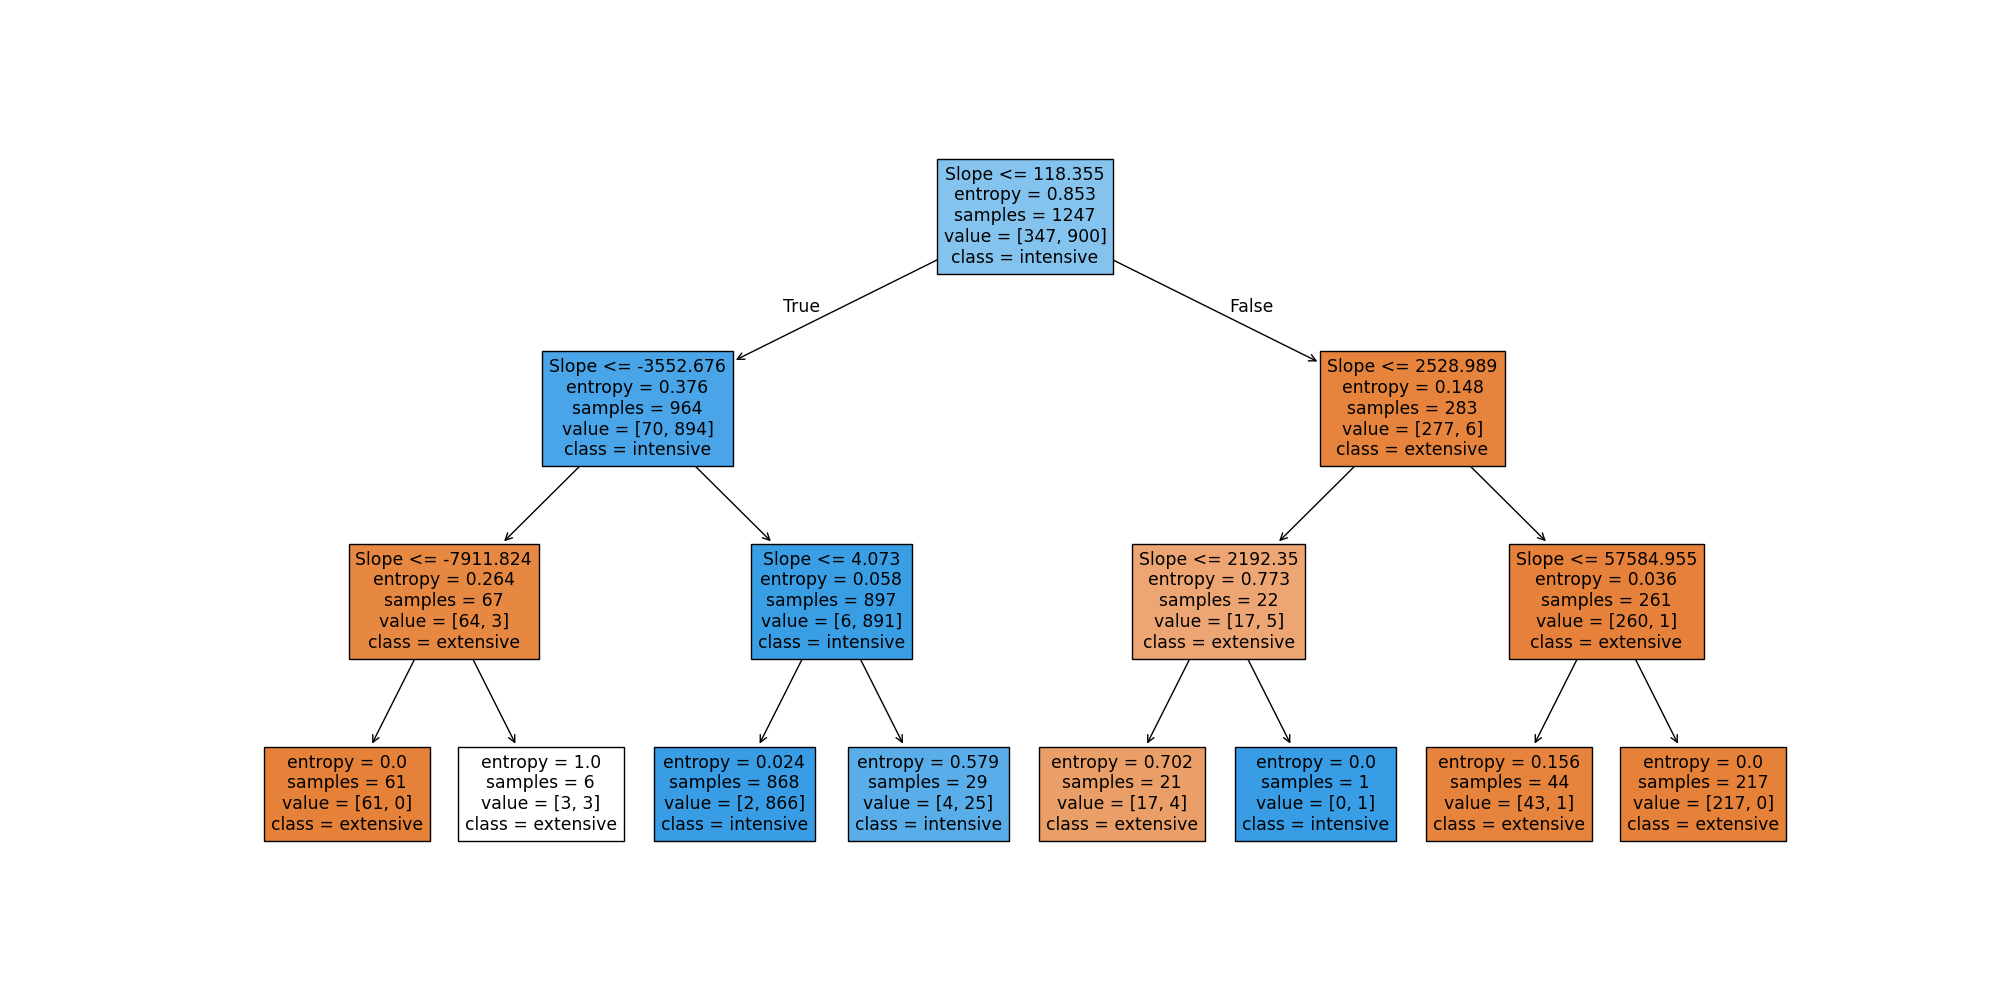
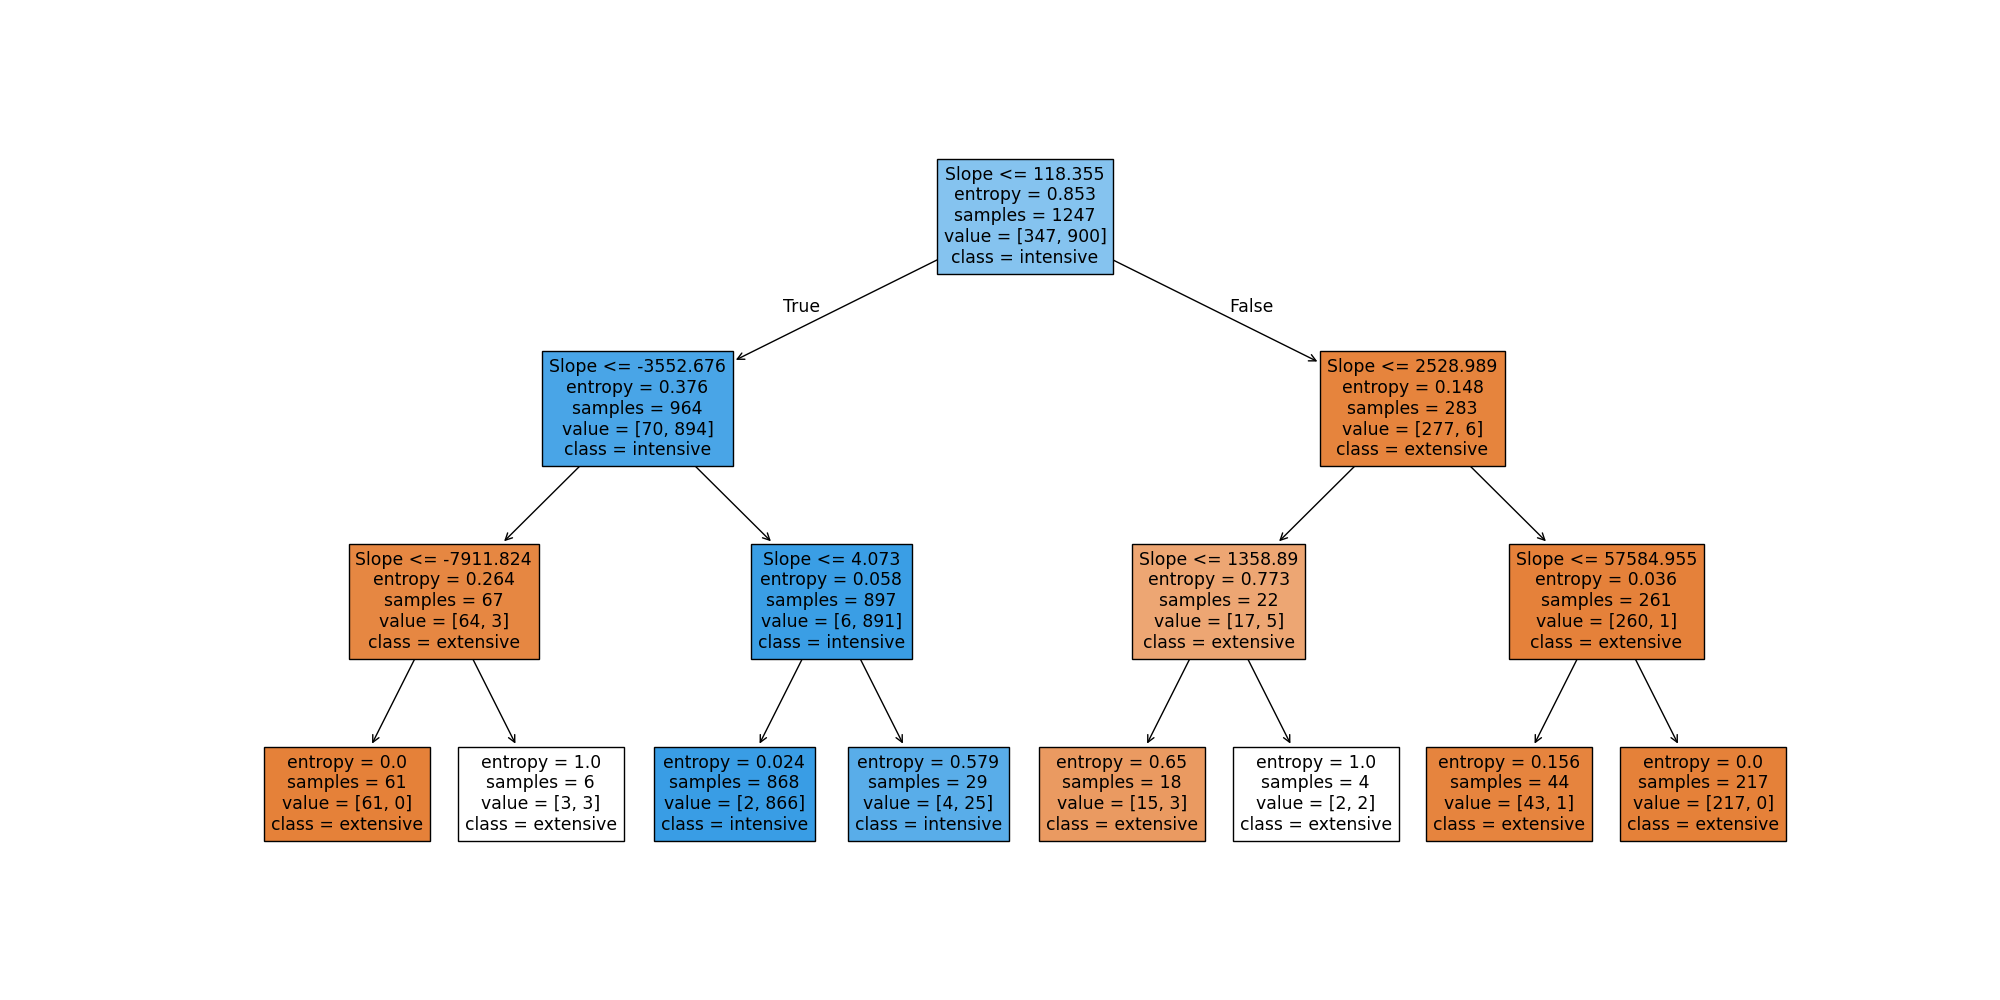
fix(backend): Set min samples split and leaf in decision tree

Changed region(s): [[0.527, 0.744, 0.713, 0.868]]

diff --git a/tools/gen_rec_model.py b/tools/gen_rec_model.py
@@ -165,7 +165,13 @@ def predict(train, test, features):
     y_test = test["Type"]
 
     # Use a small decision tree for explainability and stable results
-    model = DecisionTreeClassifier(criterion="entropy", max_depth=3, random_state=42)
+    model = DecisionTreeClassifier(
+        criterion="entropy",
+        max_depth=3,
+        min_samples_split=5,
+        min_samples_leaf=2,
+        random_state=42,
+    )
 
     # Train the classifier on the training data
     model.fit(X_train, y_train)
